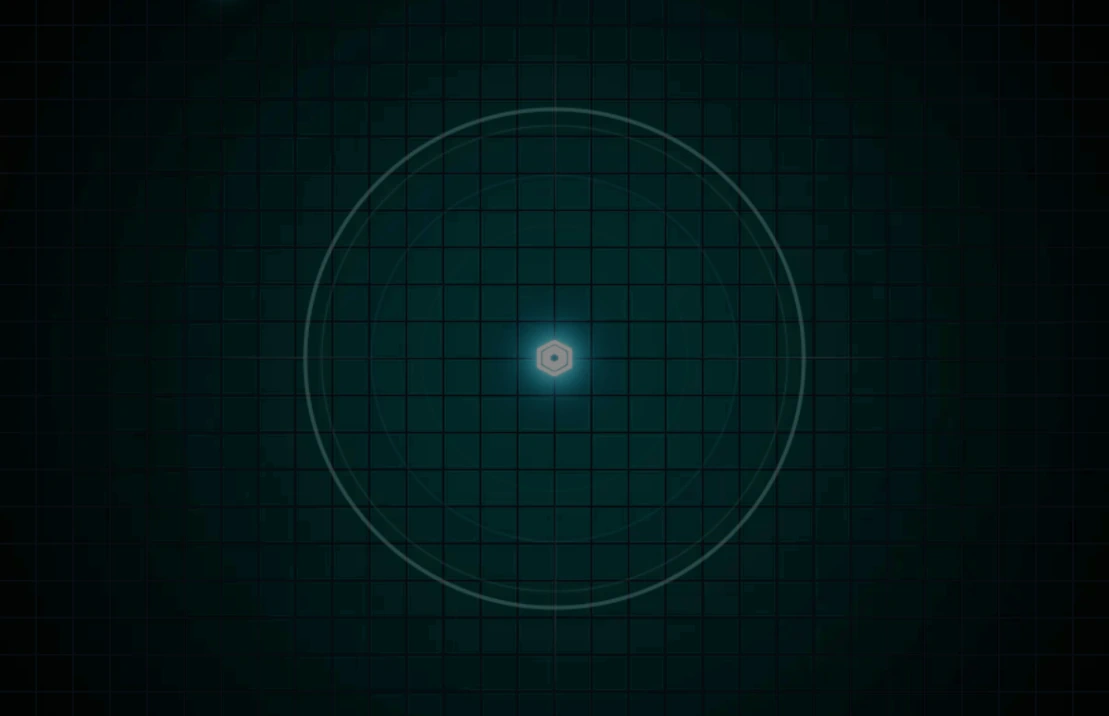
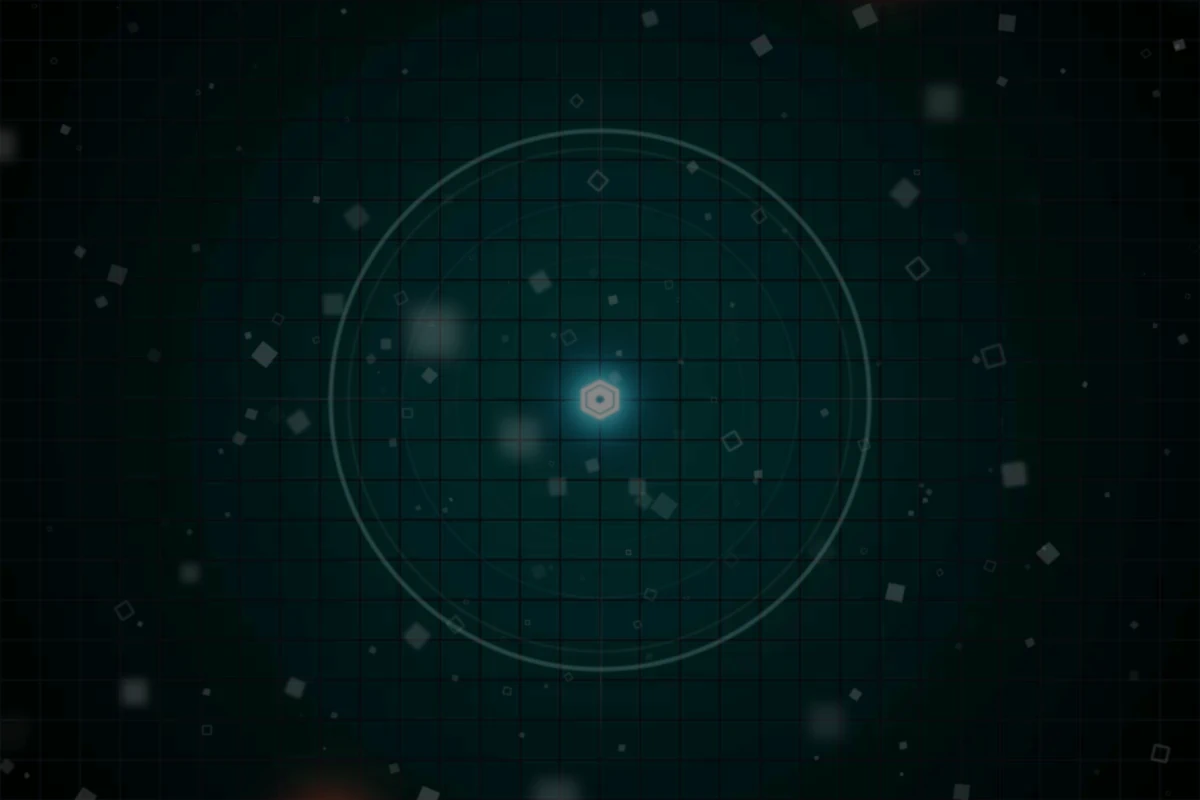
dust particles effect

diff --git a/js/util/dustParticles.js b/js/util/dustParticles.js
@@ -1,0 +1,158 @@
+/**
+ * dustParticles.js — Ambient floating square dust effect.
+ *
+ * Two-emitter setup for performance:
+ *   Emitter A: Small tight/hollow squares — ~50 particles, 1 draw call
+ *   Emitter B: Large blurry blobs — ~8 particles, 1 draw call
+ *
+ * Both emitters use the 'ui' atlas for texture batching.
+ * Depth: DEPTH_TOWER (200) < DUST_DEPTH (300) < DEPTH_HUD (1000)
+ *
+ * Particle lifecycle per particle:
+ *   [0–25% lifespan] Scale in: 0 → targetScale  (Quad.easeOut)
+ *   [25–70% lifespan] Hold at targetScale, full alpha
+ *   [70–100% lifespan] Fade out: maxAlpha → 0
+ *
+ * Usage:
+ *   dustParticles.start(scene);
+ *   dustParticles.stop();
+ */
+const dustParticles = (() => {
+    const DUST_DEPTH = GAME_CONSTANTS.DEPTH_ENEMIES - 10;
+
+    let _emitterSmall = null;
+    let _emitterBig = null;
+
+    // ── EmitterOp helpers ────────────────────────────────────────────────────
+    // In Phaser 3, onUpdate receives t = lifeCurrent/lifespan (1→0 as particle ages).
+    // lifeProgress = 1 - t = 0→1 over particle lifespan.
+
+    const _scaleOpsSmall = {
+        onEmit: (particle) => {
+            // Store a unique target scale per particle
+            particle.data.targetScale = Phaser.Math.FloatBetween(0.64, 1.15);
+            particle.data.targetScale *= particle.data.targetScale * particle.data.targetScale;
+            if (particle.data.targetScale < 0.3) {
+                particle.data.targetScale = 0.3;
+            }
+            return 0; // Start at scale 0
+        },
+        onUpdate: (particle, key, t) => {
+            const lifeProgress = 1 - t; // 0 (new) → 1 (dying)
+            if (lifeProgress < 0.40) {
+                // Scale in during first 40% of life
+                return Phaser.Math.Easing.Quadratic.Out(lifeProgress / 0.40) * particle.data.targetScale;
+            }
+            return particle.data.targetScale;
+        }
+    };
+
+    const _alphaOpsSmall = {
+        onEmit: (particle) => {
+            particle.data.maxAlpha = Phaser.Math.FloatBetween(0.06, 0.1);
+            return particle.data.maxAlpha;
+        },
+        onUpdate: (particle, key, t) => {
+            // t: 1 (new) → 0 (dying). Fade out in last 30% of life (t < 0.3)
+            if (t < 0.3) {
+                return (t / 0.3) * particle.data.maxAlpha;
+            }
+            return particle.data.maxAlpha;
+        }
+    };
+
+    const _scaleOpsBig = {
+        onEmit: (particle) => {
+            particle.data.targetScale = Phaser.Math.FloatBetween(1.25, 3);
+            return 0;
+        },
+        onUpdate: (particle, key, t) => {
+            const lifeProgress = 1 - t;
+            if (lifeProgress < 0.40) {
+                // Scale in during first 40% of life
+                return Phaser.Math.Easing.Quadratic.Out(lifeProgress / 0.40) * particle.data.targetScale;
+            }
+            return particle.data.targetScale;
+        }
+    };
+
+    const _alphaOpsBig = {
+        onEmit: (particle) => {
+            particle.data.maxAlpha = Phaser.Math.FloatBetween(0.04, 0.09);
+            return particle.data.maxAlpha;
+        },
+        onUpdate: (particle, key, t) => {
+            if (t < 0.3) {
+                return (t / 0.3) * particle.data.maxAlpha;
+            }
+            return particle.data.maxAlpha;
+        }
+    };
+
+    // ── Public API ───────────────────────────────────────────────────────────
+
+    /**
+     * Start the ambient dust particle effect.
+     * @param {Phaser.Scene} scene
+     */
+    function start(scene) {
+        if (_emitterSmall) return; // Already running
+
+        const W = GAME_CONSTANTS.WIDTH;
+        const H = GAME_CONSTANTS.HEIGHT;
+
+        // ── Emitter A: Small sharp + hollow squares ───────────────────────────
+        _emitterSmall = scene.add.particles(0, 0, 'ui', {
+            frame: ['particle_square.png', 'particle_square_hollow.png', 'particle_square_blur.png'],
+            x: { min: 0, max: W },
+            y: { min: 0, max: H },
+            speedX: { min: -10, max: 10 },
+            speedY: { min: -10, max: 10 },
+            scale: _scaleOpsSmall,
+            alpha: _alphaOpsSmall,
+            lifespan: { min: 4000, max: 9000 },
+            frequency: 60,
+            maxParticles: 0,
+            rotate: { min: 0, max: 360 },
+            gravityY: 0,
+            blendMode: Phaser.BlendModes.NORMAL,
+        }).setDepth(DUST_DEPTH).setScrollFactor(0.6);
+
+        // ── Emitter B: Large blurry blob squares ─────────────────────────────
+        _emitterBig = scene.add.particles(0, 0, 'ui', {
+            frame: 'particle_square_blur_big.png',
+            x: { min: 0, max: W },
+            y: { min: 0, max: H },
+            speedX: { min: -6, max: 6 },
+            speedY: { min: -15, max: -4 },
+            scale: _scaleOpsBig,
+            alpha: _alphaOpsBig,
+            lifespan: { min: 7000, max: 14000 },
+            frequency: 600,
+            maxParticles: 0,
+            gravityY: 0,
+            blendMode: Phaser.BlendModes.NORMAL,
+        }).setDepth(DUST_DEPTH - 1).setScrollFactor(0.4);
+    }
+
+    /**
+     * Stop and destroy all dust particle emitters.
+     */
+    function stop() {
+        if (_emitterSmall) {
+            _emitterSmall.destroy();
+            _emitterSmall = null;
+        }
+        if (_emitterBig) {
+            _emitterBig.destroy();
+            _emitterBig = null;
+        }
+    }
+
+    /** Whether the effect is currently running. */
+    function isActive() {
+        return _emitterSmall !== null;
+    }
+
+    return { start, stop, isActive };
+})();

diff --git a/js/gameInit.js b/js/gameInit.js
@@ -104,6 +104,7 @@ messageBus.subscribeOnce('assetsLoaded', () => {
     achievementManager.init();
     glitchFX.init();
     glitchFX.setColors(GAME_CONSTANTS.COLOR_HOSTILE, GAME_CONSTANTS.COLOR_FRIENDLY);
+    dustParticles.start(PhaserScene);
 
     // cursor AOE (must be unlocked via Upgrade Tree)
     pulseAttack.init();

diff --git a/index.html b/index.html
@@ -78,6 +78,7 @@
   <script src="js/util/cinematicManager.js"></script>
   <script src="js/util/treeLineManager.js"></script>
   <script src="js/util/glitchFX.js"></script>
+  <script src="js/util/dustParticles.js"></script>
 
   <script src="js/uibuttons.js"></script>
   <script src="js/milestoneTracker.js"></script>
